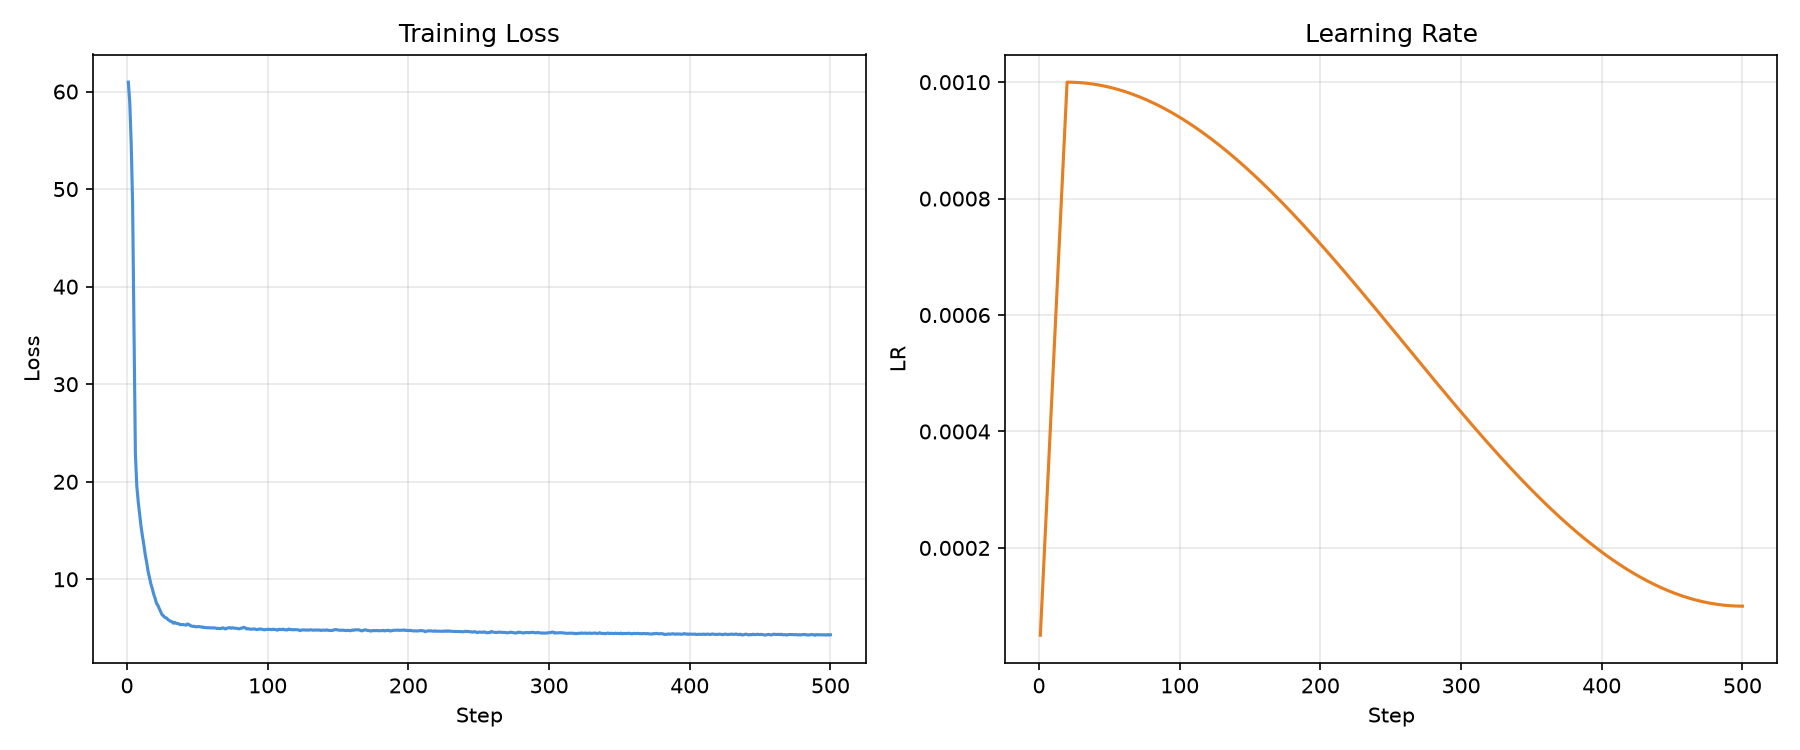
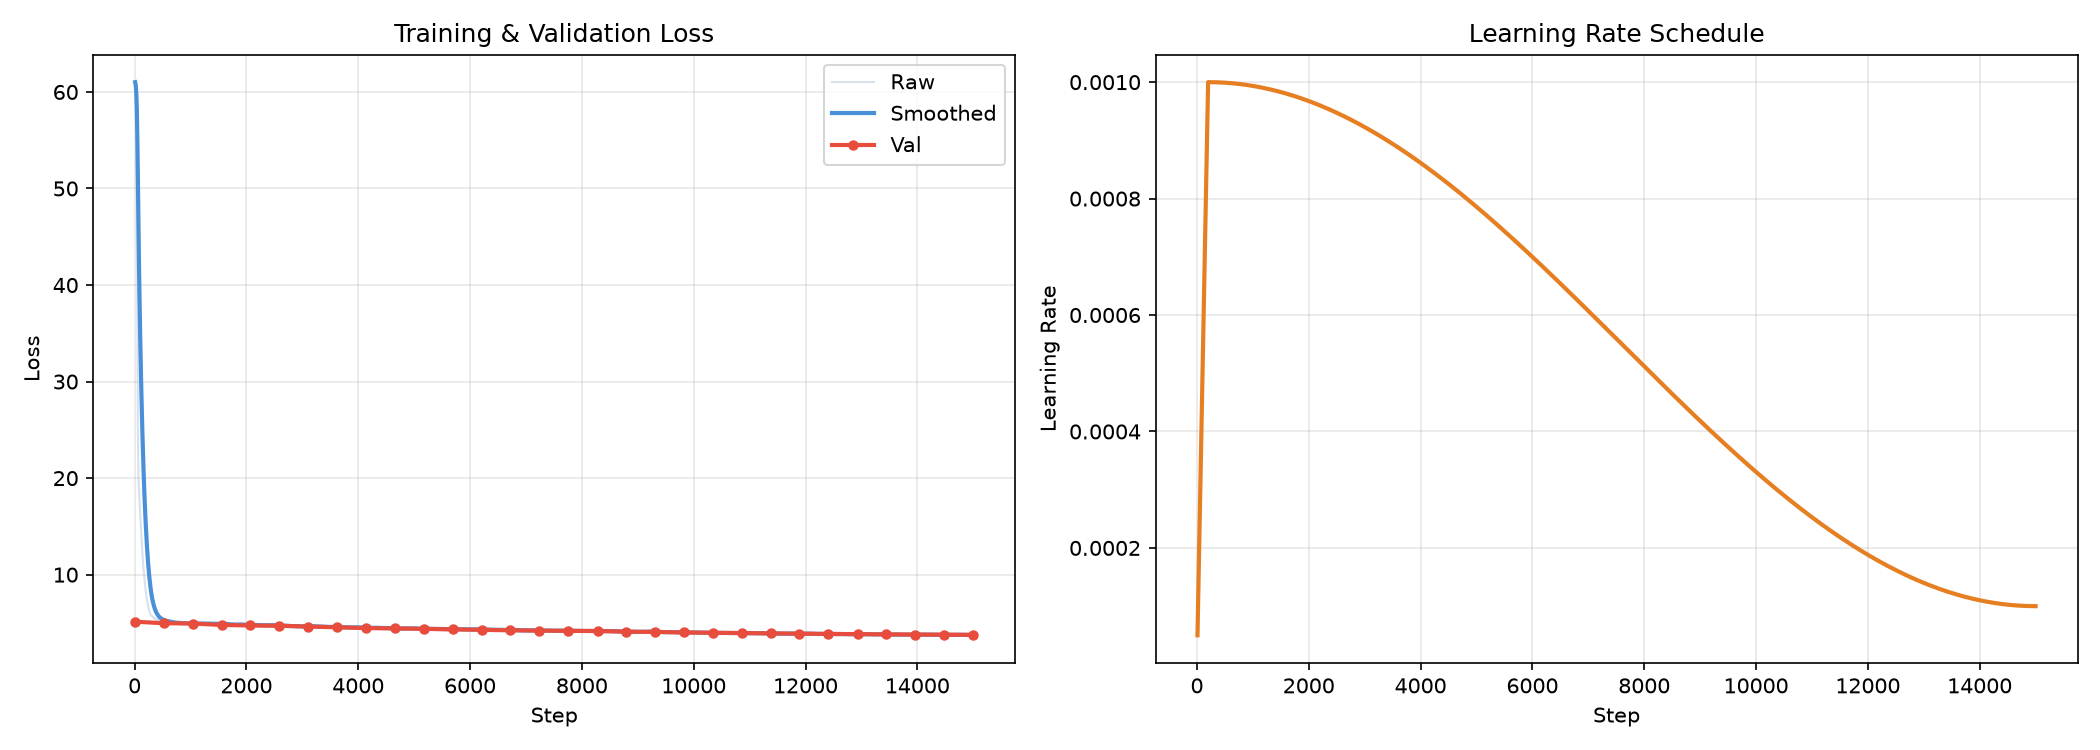
update README and examples with 15k step results (loss 3.75, 424 tok/s)

diff --git a/README.md b/README.md
@@ -41,21 +41,21 @@ Key design decisions:
 
 ```bash
 # Train tiny on TinyStories (auto-downloads if missing)
-python train.py --preset tiny --steps 5000 --dtype float16 --graph
+python train.py --preset tiny --steps 15000 --dtype float16 --graph
 
 # Resume from latest checkpoint + plot full history
-python train.py --preset tiny --steps 10000 --dtype float16 --graph --resume
+python train.py --preset tiny --steps 30000 --dtype float16 --graph --resume
 
 # Export to C++ binary (3.7 MB) and run inference
-python inference/export_model.py checkpoints/checkpoint_005000.pt inference/tetra_model.bin
+python inference/export_model.py checkpoints/checkpoint_015000.pt inference/tetra_model.bin
 cd inference && build.bat avx2 && cd ..
-python inference/run_inference.py inference/tetra_model.bin "Once upon a time" --max-tokens 50
+python inference/run_inference.py inference/tetra_model.bin "Once upon a time" --max-tokens 100
 
 # Use GPT-2 tokenizer instead of custom BPE
-python train.py --preset tiny --steps 5000 --dtype float16 --tokenizer-dir gpt2
+python train.py --preset tiny --steps 15000 --dtype float16 --tokenizer-dir gpt2
 
 # Multi-source data (1B tokens from FineWeb/Cosmopedia/Orca)
-python scripts/prepare_data.py --data-cache data
+python scripts/prepare_data.py --target-tokens 1e9
 python train.py --preset 500m --steps 15000 --dtype float16 --data-cache data --batch-size 4 --grad-accum 8
 ```
 
@@ -114,35 +114,32 @@ python run_inference.py tetra_model.bin "Once upon a time" --max-tokens 100
 
 ### Tiny 8.5M on TinyStories
 
-Trained for 5,000 steps on Intel Iris Xe (DirectML) in ~3 hours:
+Trained for 15,000 steps on Intel Iris Xe (DirectML) in ~9.5 hours:
 
 | Metric | Value |
 |--------|-------|
 | **Total params** | 8,523,008 (6.3M ternary + 2.2M FP32) |
 | **Exported binary** | **3.7 MB** (INT8 embedding + 2-bit ternary weights) |
-| **C++ inference** | **420+ tok/s** (AVX2) / 370+ tok/s (scalar) |
-| **Dataset** | TinyStoriesV2-GPT4, 535M tokens, 267K stories |
+| **C++ inference** | **424 tok/s** (AVX2) / 370+ tok/s (scalar) |
+| **Dataset** | TinyStoriesV2-GPT4, 535M tokens, 80K stories |
 | **Tokenizer** | Custom BPE, vocab=8192 |
 | **Mode** | STE (latent weights) |
 | **Batch** | 16 × 4 grad_accum = 64 effective |
-| **Speed** | 2.26s/step |
-| **Final train loss** | 4.3092 |
-| **Final val loss** | 4.3182 |
-| **Loss trend** | 60.96 → 4.31 (converged smoothly) |
+| **Speed** | 2.28s/step |
+| **Final train loss** | 3.7507 |
+| **Final val loss** | 3.7663 |
+| **Loss trend** | 61.02 → 3.75 (converged smoothly) |
 
 <p align="center">
   <img src="examples/tiny/loss_plot.png" alt="Training Loss Plot" width="85%">
   <br>
-  <em><b>Figure 1:</b> Convergence curve of Tetra 8.5M (STE) on TinyStories (5,000 steps, Cosine LR Decay with Warmup). Plot includes raw + EMA-smoothed train loss and validation loss.</em>
+  <em><b>Figure 1:</b> Convergence curve of Tetra 8.5M (STE) on TinyStories (15,000 steps, Cosine LR Decay with Warmup). Plot includes raw + EMA-smoothed train loss and validation loss.</em>
 </p>
 
-Sample output (PyTorch generate):
-> "Hello , Tim to find food the ball like . " I can help he . You mom said . He is . We ' s . You you !" Sue ' s room and a tree away . She is . " Let . He likes . She says . It is . She had and said need the bear and they played too . They were best , Tim and she were very happy on the bird . They went the ground , Tom smiled and laughed away him they could . The cat . The bird ' s a nice . They looked . They played all lived . But then it . <| endoftext |> Once upon a time , there was a little boy named Tim . The truck was very the rock . One day , she saw what . The boat and said , she could , " Thank said , Tim . He found it !" The bird to play with his mom , " Can you something and said , " Maybe to play . The end . She saw a big , he wanted to find to his family the hole"
+C++ inference (exported binary, AVX2, 3.7 MB, 424 tok/s):
+> "Once upon a time to play a little girl named Lily. She was very much. Mia saw a big, she was so happy and a new little boy to make her toys, 'Don's time for you?' Lily said, 'I don'm sorry the toy car.' Mia did not listen the girl smiled and said, 'No, we should. I have fun worry. I want to be careful.' Lily said, you are going. 'Thank, you can help me and they are nice.'"
 
-C++ inference (exported binary, AVX2, 3.7 MB, 420+ tok/s):
-> "Once upon a time , there was a little girl named Tim . The moral she saw . The man it to play with it was sad it . The . The little bird his . It was a loud . It was happy and put it . The . The moral to play . She saw a big fish and said , but , 'No will , I't worry's mine to me , but you can , 'I'm't worry.' They all played . Lily and he did not know and ran ."
-
-Limited but recognizable — expected for 8.5M ternary params on simple stories. Training to 20k–30k steps on TinyStoriesV2 significantly improves coherence.
+Limited but coherent — expected for 8.5M ternary params trained for 15k steps on TinyStories. Training to 30k–50k steps would further improve narrative quality.
 
 
 ## Project Structure